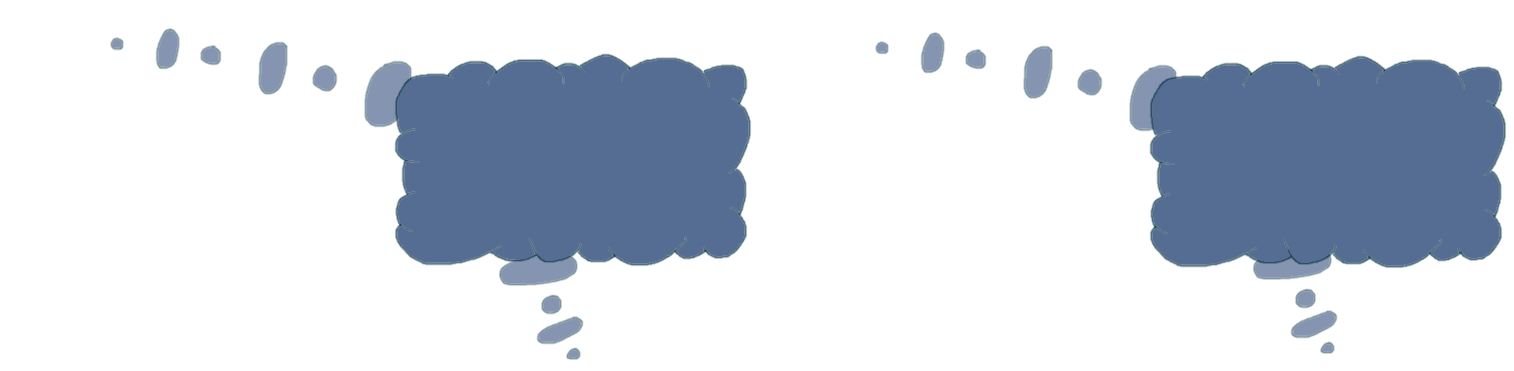
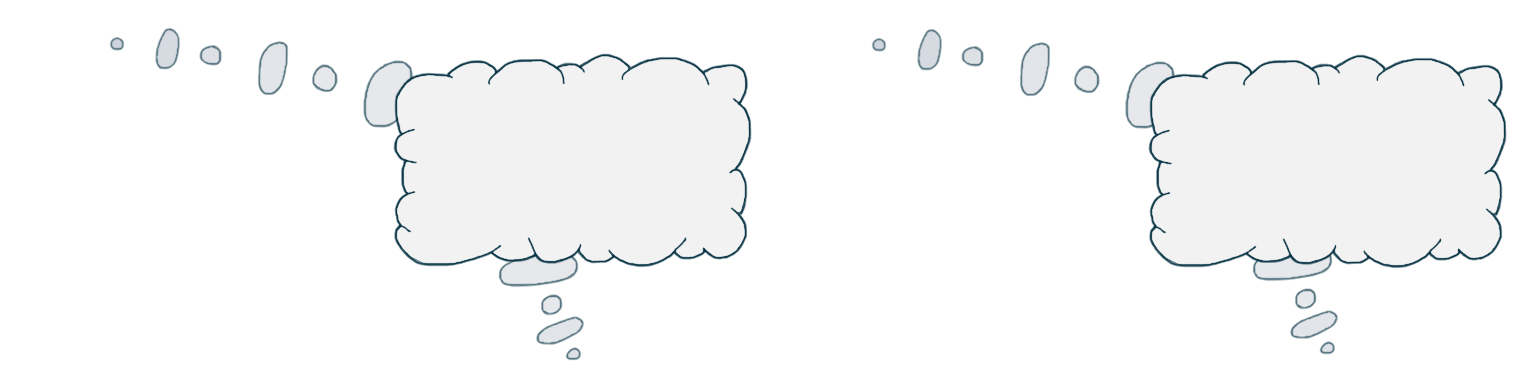
Change blue decision box to white decision box

diff --git a/src/gameObjects/decisionBox.ts b/src/gameObjects/decisionBox.ts
@@ -13,7 +13,7 @@ export class DecisionBox extends Phaser.GameObjects.Sprite {
 
         this.setDepth(1);
 
-        this.text = this.scene.add.text(this.xPosition + 60, this.yPosition - 80, `Do what? \n  A: ${decision.optionA.label}\n  B: ${decision.optionB.label}`, { fontSize: '20px', fill: '#fff' });
+        this.text = this.scene.add.text(this.xPosition + 60, this.yPosition - 80, `Do what? \n  A: ${decision.optionA.label}\n  B: ${decision.optionB.label}`, { fontSize: '21px', fill: '#022F40' });
         this.text.setDepth(1);
 
         this.setVisible(false);
